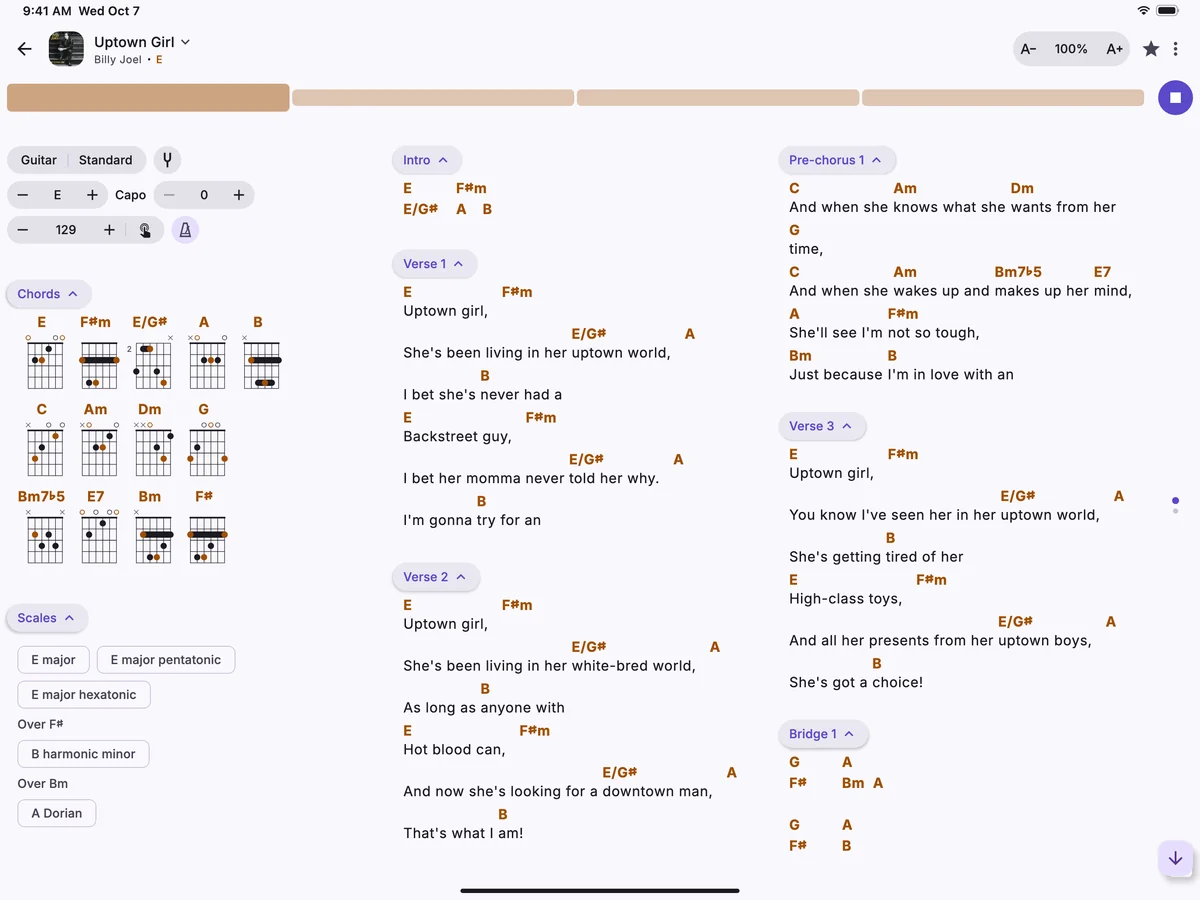
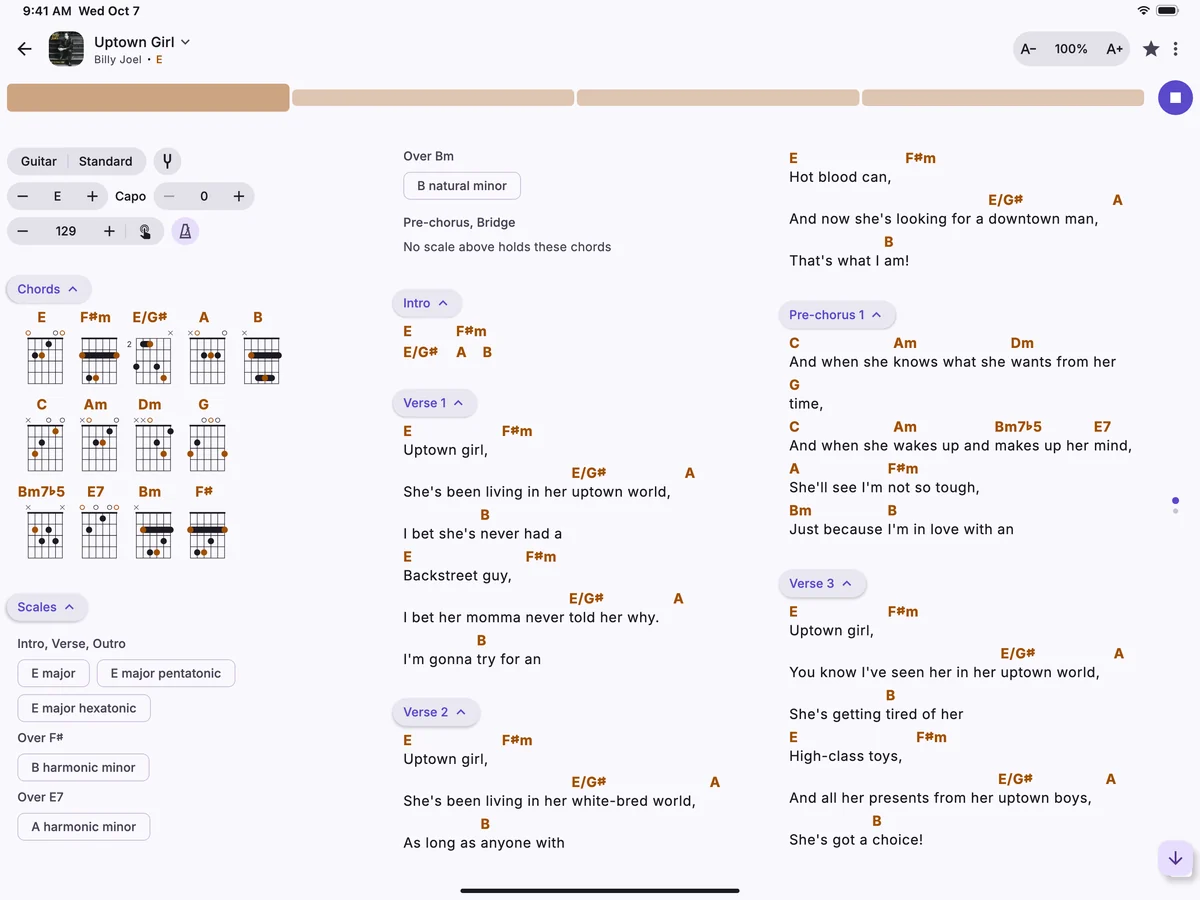
Update screenshots.

diff --git a/index.html b/index.html
@@ -12,7 +12,7 @@
 	<meta property="og:url" content="https://campfire-songbook.com/">
 	<meta property="og:title" content="Campfire: Songbook &amp; Chords">
 	<meta property="og:description" content="A free songbook for your lyrics and chords, with chord diagrams and scales for your instrument, setlists, a metronome set to each song’s tempo, and a tuner. Works offline on phones, tablets, and computers, with optional real-time Dropbox sync.">
-	<meta property="og:image" content="https://campfire-songbook.com/assets/og-image.jpg?v=d380d8dc">
+	<meta property="og:image" content="https://campfire-songbook.com/assets/og-image.jpg?v=121dfb7c">
 	<meta property="og:image:width" content="1200">
 	<meta property="og:image:height" content="630">
 	<meta property="og:image:alt" content="Campfire running on a laptop and a phone">
@@ -21,7 +21,7 @@
 	<link rel="apple-touch-icon" href="assets/icon-192.png?v=0f2be8ac">
 	<link rel="preload" href="assets/fonts/inter_bold.woff2?v=821f5d7f" as="font" type="font/woff2" crossorigin>
 	<link rel="preload" href="assets/fonts/inter_regular.woff2?v=8982fd4c" as="font" type="font/woff2" crossorigin>
-	<link rel="stylesheet" href="assets/site.css?v=aee7955d">
+	<link rel="stylesheet" href="assets/site.css?v=bdf3cad6">
 	<script>
 		// Every visitor is offered two versions: a phone or a tablet the app from its store first and the web app second,
 		// a computer the other way around. The script names the system: the stylesheet shows the elements marked
@@ -88,8 +88,8 @@
 					<img src="assets/screenshots/laptop-setlists-light.webp?v=da7db5e0" width="1200" height="753" fetchpriority="high" alt="Setlists on a MacBook, each with its songs, their key, tempo, and length, and the running time of the set.">
 				</picture></div><div class="base"></div></div>
 				<div class="tablet"><div class="frame"><picture class="screen">
-					<source srcset="assets/screenshots/tablet-song-dark.webp?v=bc8833b7" media="(prefers-color-scheme: dark)">
-					<img src="assets/screenshots/tablet-song-light.webp?v=d11549c6" width="1200" height="900" alt="A song on an iPad, its chord diagrams and verses in columns.">
+					<source srcset="assets/screenshots/tablet-song-dark.webp?v=8bedfd1b" media="(prefers-color-scheme: dark)">
+					<img src="assets/screenshots/tablet-song-light.webp?v=80f0d937" width="1200" height="900" alt="A song on an iPad, its chord diagrams and verses in columns.">
 				</picture></div></div>
 				<div class="phone"><div class="frame"><picture class="screen">
 					<source srcset="assets/screenshots/phone-songs-dark.webp?v=9c7e28b0" media="(prefers-color-scheme: dark)">
@@ -213,8 +213,8 @@
 			</div>
 			<div class="pair">
 				<div class="tablet"><div class="frame"><picture class="screen">
-					<source srcset="assets/screenshots/tablet-export-dark.webp?v=60868eed" media="(prefers-color-scheme: dark)">
-					<img src="assets/screenshots/tablet-export-light.webp?v=70be11c8" width="1200" height="900" loading="lazy" alt="A song shared as a PDF on an iPad, its page previewed beside the options.">
+					<source srcset="assets/screenshots/tablet-export-dark.webp?v=f1d88db8" media="(prefers-color-scheme: dark)">
+					<img src="assets/screenshots/tablet-export-light.webp?v=cab2e11f" width="1200" height="900" loading="lazy" alt="A song shared as a PDF on an iPad, its page previewed beside the options.">
 				</picture></div></div>
 				<div class="phone"><div class="frame"><picture class="screen">
 					<source srcset="assets/screenshots/phone-setlist-dark.webp?v=26094b42" media="(prefers-color-scheme: dark)">
@@ -238,8 +238,8 @@
 				<div class="slides" id="practice-slides">
 					<div class="pair flip">
 						<div class="tablet"><div class="frame"><picture class="screen">
-							<source srcset="assets/screenshots/tablet-song-metronome-dark.webp?v=a8d9906e" media="(prefers-color-scheme: dark)">
-							<img src="assets/screenshots/tablet-song-metronome-light.webp?v=ac6b6bb2" width="1200" height="900" loading="lazy" alt="A song on an iPad with the metronome panel open under its title.">
+							<source srcset="assets/screenshots/tablet-song-metronome-dark.webp?v=749b1a77" media="(prefers-color-scheme: dark)">
+							<img src="assets/screenshots/tablet-song-metronome-light.webp?v=3732240b" width="1200" height="900" loading="lazy" alt="A song on an iPad with the metronome panel open under its title.">
 						</picture><span class="beats tablet-song-metronome" aria-hidden="true"><i></i><i></i><i></i><i></i></span></div></div>
 						<div class="phone"><div class="frame"><picture class="screen">
 							<source srcset="assets/screenshots/phone-metronome-dark.webp?v=328440d2" media="(prefers-color-scheme: dark)">
@@ -248,8 +248,8 @@
 					</div>
 					<div class="pair flip" aria-hidden="true">
 						<div class="tablet"><div class="frame"><picture class="screen">
-							<source srcset="assets/screenshots/tablet-song-tuner-dark.webp?v=555f24da" media="(prefers-color-scheme: dark)">
-							<img src="assets/screenshots/tablet-song-tuner-light.webp?v=ea2d3a7d" width="1200" height="900" loading="lazy" alt="A song on an iPad with the tuner open over it, the low E string of a guitar heard 9 cents sharp.">
+							<source srcset="assets/screenshots/tablet-song-tuner-dark.webp?v=2f1990d3" media="(prefers-color-scheme: dark)">
+							<img src="assets/screenshots/tablet-song-tuner-light.webp?v=be15f34d" width="1200" height="900" loading="lazy" alt="A song on an iPad with the tuner open over it, the low E string of a guitar heard 9 cents sharp.">
 						</picture></div></div>
 						<div class="phone"><div class="frame"><picture class="screen">
 							<source srcset="assets/screenshots/phone-tuner-dark.webp?v=854a1d23" media="(prefers-color-scheme: dark)">
@@ -278,8 +278,8 @@
 				<div class="slides" id="instrument-slides">
 					<div class="pair">
 						<div class="tablet"><div class="frame"><picture class="screen">
-							<source srcset="assets/screenshots/tablet-song-chord-shape-dark.webp?v=01670640" media="(prefers-color-scheme: dark)">
-							<img src="assets/screenshots/tablet-song-chord-shape-light.webp?v=46646bf5" width="1200" height="900" loading="lazy" alt="I’m Gonna Be (500 Miles) on an iPad, with the shapes of a B chord on a guitar offered over the song.">
+							<source srcset="assets/screenshots/tablet-song-chord-shape-dark.webp?v=6adf0ffc" media="(prefers-color-scheme: dark)">
+							<img src="assets/screenshots/tablet-song-chord-shape-light.webp?v=a73ea59b" width="1200" height="900" loading="lazy" alt="I’m Gonna Be (500 Miles) on an iPad, with the shapes of a B chord on a guitar offered over the song.">
 						</picture></div></div>
 						<div class="phone"><div class="frame"><picture class="screen">
 							<source srcset="assets/screenshots/phone-chords-dark.webp?v=fe9d2ecd" media="(prefers-color-scheme: dark)">

diff --git a/privacy/index.html b/privacy/index.html
@@ -12,14 +12,14 @@
 	<meta property="og:url" content="https://campfire-songbook.com/privacy/">
 	<meta property="og:title" content="Privacy policy – Campfire">
 	<meta property="og:description" content="How Campfire handles your data: no account, no server, and no ads or tracking.">
-	<meta property="og:image" content="https://campfire-songbook.com/assets/og-image.jpg?v=d380d8dc">
+	<meta property="og:image" content="https://campfire-songbook.com/assets/og-image.jpg?v=121dfb7c">
 	<meta property="og:image:width" content="1200">
 	<meta property="og:image:height" content="630">
 	<meta property="og:image:alt" content="Campfire running on a laptop and a phone">
 	<meta name="twitter:card" content="summary_large_image">
 	<link rel="icon" href="../assets/icon.svg?v=8ba29e56" type="image/svg+xml">
 	<link rel="apple-touch-icon" href="../assets/icon-192.png?v=0f2be8ac">
-	<link rel="stylesheet" href="../assets/site.css?v=aee7955d">
+	<link rel="stylesheet" href="../assets/site.css?v=bdf3cad6">
 	<script>
 		// Every visitor is offered two versions: a phone or a tablet the app from its store first and the web app second,
 		// a computer the other way around. The script names the system: the stylesheet shows the elements marked

diff --git a/assets/site.css b/assets/site.css
@@ -173,10 +173,10 @@ html:not([data-os]) .all-platforms { display: none; }
 .beats i:nth-child(2) { background-position-x: 33.333%; animation-delay: 0.5s; }
 .beats i:nth-child(3) { background-position-x: 66.667%; animation-delay: 1s; }
 .beats i:nth-child(4) { background-position-x: 100%; animation-delay: 1.5s; }
-.beats.tablet-song-metronome i { background-image: url("screenshots/tablet-song-metronome-beats-light.webp?v=049b3dc6"); }
+.beats.tablet-song-metronome i { background-image: url("screenshots/tablet-song-metronome-beats-light.webp?v=56685221"); }
 .beats.phone-metronome i { background-image: url("screenshots/phone-metronome-beats-light.webp?v=aacb0c66"); }
 @media (prefers-color-scheme: dark) {
-	.beats.tablet-song-metronome i { background-image: url("screenshots/tablet-song-metronome-beats-dark.webp?v=c1477bb3"); }
+	.beats.tablet-song-metronome i { background-image: url("screenshots/tablet-song-metronome-beats-dark.webp?v=24be3df8"); }
 	.beats.phone-metronome i { background-image: url("screenshots/phone-metronome-beats-dark.webp?v=bd02799b"); }
 }
 @keyframes beat { 0% { opacity: 1; } 1.25% { opacity: 0.75; } 2.5% { opacity: 0.42; } 3.75% { opacity: 0.2; } 5% { opacity: 0.1; } 7.5%, 100% { opacity: 0; } }

diff --git a/support/index.html b/support/index.html
@@ -12,14 +12,14 @@
 	<meta property="og:url" content="https://campfire-songbook.com/support/">
 	<meta property="og:title" content="Support – Campfire">
 	<meta property="og:description" content="Answers to common questions about Campfire, and how to get in touch.">
-	<meta property="og:image" content="https://campfire-songbook.com/assets/og-image.jpg?v=d380d8dc">
+	<meta property="og:image" content="https://campfire-songbook.com/assets/og-image.jpg?v=121dfb7c">
 	<meta property="og:image:width" content="1200">
 	<meta property="og:image:height" content="630">
 	<meta property="og:image:alt" content="Campfire running on a laptop and a phone">
 	<meta name="twitter:card" content="summary_large_image">
 	<link rel="icon" href="../assets/icon.svg?v=8ba29e56" type="image/svg+xml">
 	<link rel="apple-touch-icon" href="../assets/icon-192.png?v=0f2be8ac">
-	<link rel="stylesheet" href="../assets/site.css?v=aee7955d">
+	<link rel="stylesheet" href="../assets/site.css?v=bdf3cad6">
 	<script>
 		// Every visitor is offered two versions: a phone or a tablet the app from its store first and the web app second,
 		// a computer the other way around. The script names the system: the stylesheet shows the elements marked

diff --git a/s/index.html b/s/index.html
@@ -13,7 +13,7 @@
 	<meta property="og:url" content="https://campfire-songbook.com/s/">
 	<meta property="og:title" content="A song or setlist shared from Campfire">
 	<meta property="og:description" content="Open it in Campfire, the free songbook app for lyrics and chords.">
-	<meta property="og:image" content="https://campfire-songbook.com/assets/og-image.jpg?v=d380d8dc">
+	<meta property="og:image" content="https://campfire-songbook.com/assets/og-image.jpg?v=121dfb7c">
 	<meta property="og:image:width" content="1200">
 	<meta property="og:image:height" content="630">
 	<meta property="og:image:alt" content="Campfire running on a laptop and a phone">
@@ -21,7 +21,7 @@
 	<meta name="apple-itunes-app" content="app-id=6815160850">
 	<link rel="icon" href="../assets/icon.svg?v=8ba29e56" type="image/svg+xml">
 	<link rel="apple-touch-icon" href="../assets/icon-192.png?v=0f2be8ac">
-	<link rel="stylesheet" href="../assets/site.css?v=aee7955d">
+	<link rel="stylesheet" href="../assets/site.css?v=bdf3cad6">
 	<style>
 		/* The landing page of a shared link: the buttons that open it, one under another, the first the largest. */
 		.shared { max-width: 560px; }

diff --git a/404.html b/404.html
@@ -24,7 +24,7 @@
 	<meta name="theme-color" content="#FAF8FE" media="(prefers-color-scheme: light)">
 	<meta name="theme-color" content="#15121C" media="(prefers-color-scheme: dark)">
 	<link rel="icon" href="/assets/icon.svg?v=8ba29e56" type="image/svg+xml">
-	<link rel="stylesheet" href="/assets/site.css?v=aee7955d">
+	<link rel="stylesheet" href="/assets/site.css?v=bdf3cad6">
 </head>
 <body>
 <header class="site-header">
